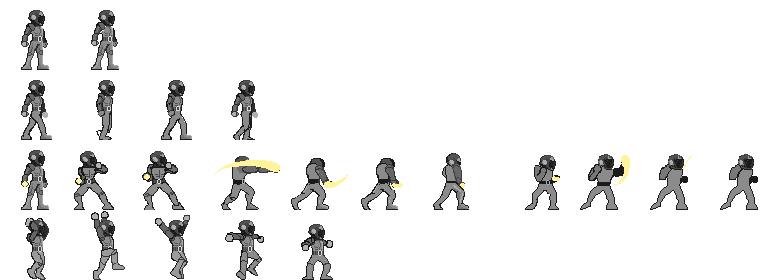
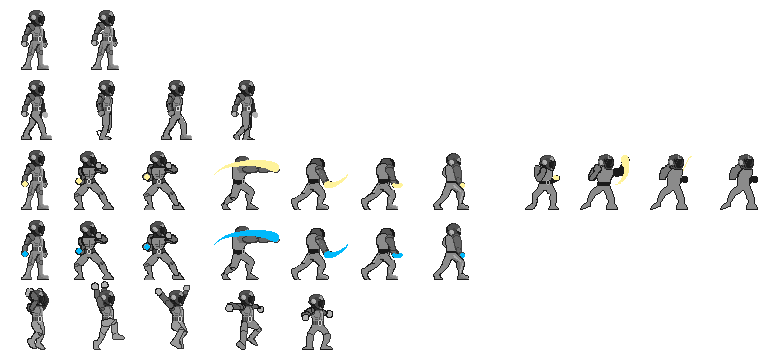
heavy attack

diff --git a/DoubleHit/DoubleHit/Game/Hero.cpp b/DoubleHit/DoubleHit/Game/Hero.cpp
@@ -52,9 +52,9 @@ void Hero::State_Idle::CheckExit(GameObject* object) {
     if (Engine::GetInput().KeyJustReleased(CS230::Input::Keys::J)) { //light attack
         hero->change_state(&hero->state_light);
     }
-    //if (Engine::GetInput().KeyJustReleased(CS230::Input::Keys::K)) { //heavy attack
-    //    hero->change_state(&hero->state_heavy);
-    //}
+    if (Engine::GetInput().KeyJustReleased(CS230::Input::Keys::K)) { //heavy attack
+        hero->change_state(&hero->state_heavy);
+    }
 }
 
 void Hero::State_Falling::Enter(GameObject* object) {
@@ -95,9 +95,9 @@ void Hero::State_Running::CheckExit(GameObject* object) {
     if (Engine::GetInput().KeyJustReleased(CS230::Input::Keys::J)) { //light attack
         hero->change_state(&hero->state_light);
     }
-    //if (Engine::GetInput().KeyJustReleased(CS230::Input::Keys::K)) { //heavy attack
-    //    hero->change_state(&hero->state_heavy);
-    //}
+    if (Engine::GetInput().KeyJustReleased(CS230::Input::Keys::K)) { //heavy attack
+        hero->change_state(&hero->state_heavy);
+    }
 }
 
 
@@ -115,11 +115,13 @@ void Hero::State_Light::CheckExit(GameObject* object) {
 
 void Hero::State_Heavy::Enter(GameObject* object) {
     Hero* hero = static_cast<Hero*>(object);
-    //hero->GetGOComponent<CS230::Sprite>()->PlayAnimation(static_cast<int>(Animations::Light));
+    hero->GetGOComponent<CS230::Sprite>()->PlayAnimation(static_cast<int>(Animations::Heavy));
 }
 void Hero::State_Heavy::Update([[maybe_unused]] GameObject* object, [[maybe_unused]] double dt) { }
 void Hero::State_Heavy::CheckExit(GameObject* object) {
     Hero* hero = static_cast<Hero*>(object);
+    if (hero->GetGOComponent<CS230::Sprite>()->AnimationEnded())
+        hero->change_state(&hero->state_idle);
 }
 
 void Hero::Update(double dt) {

diff --git a/DoubleHit/DoubleHit/Game/Hero.h b/DoubleHit/DoubleHit/Game/Hero.h
@@ -91,9 +91,9 @@ private:
         Idle,
         Running,
         Light,
+        Heavy,
         Jumping,
         Falling
-        //Heavy,
         //LightLight
     };
 };
